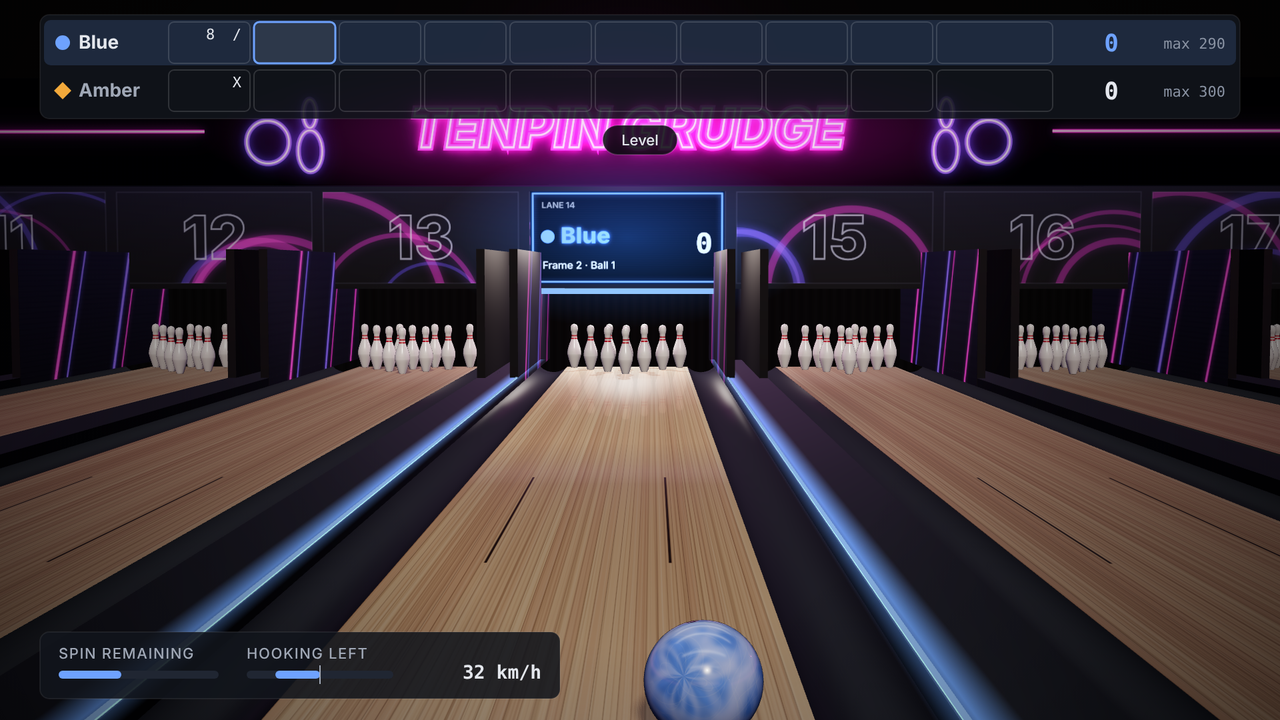
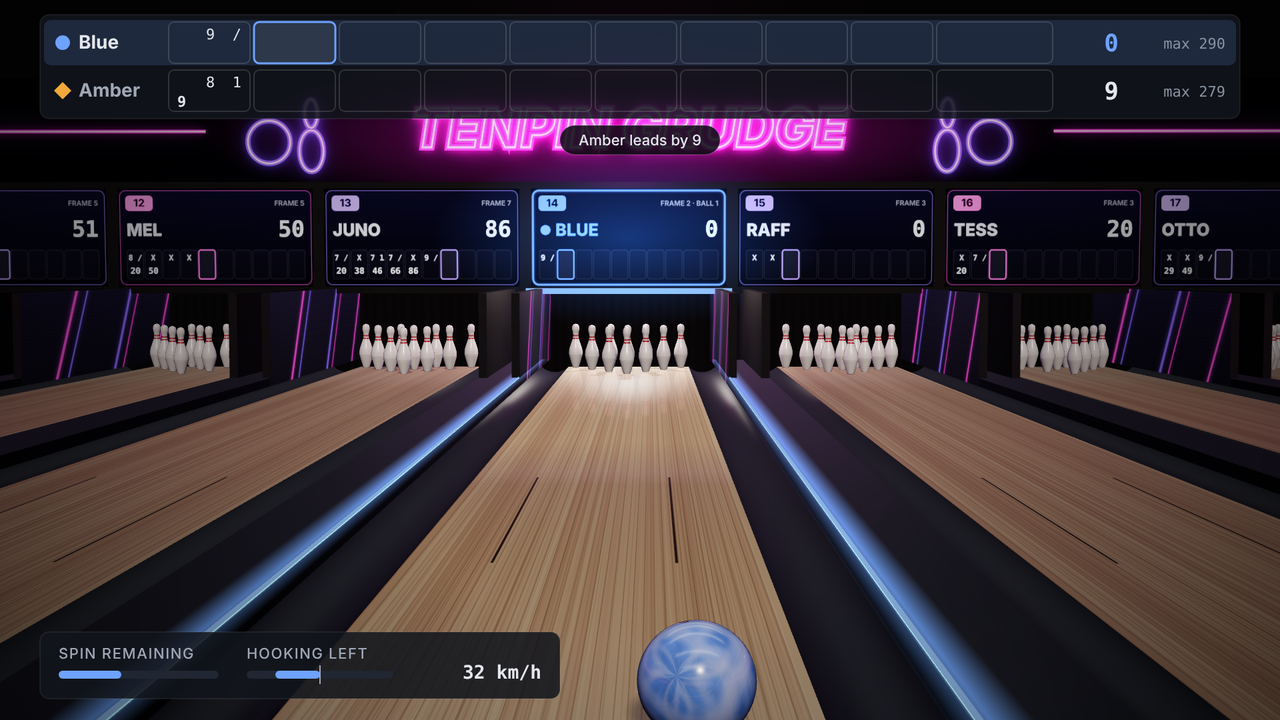
Tenpin Grudge: rework the lane boards
- Seven separate screens in one layout: lane badge, bowler, score and a ten-frame strip.
- Lane 14 follows the match in the bowler's colour; the neighbours' boards follow their own
  made-up games, which advance as their balls land.
- Kickbacks lowered so they no longer cut across the screens.
Physics, scoring and the bot are unchanged.

Claude-Session: https://claude.ai/code/session_01LpKQHdNm2zbJTVhMqFWkmD

diff --git a/master.html b/master.html
@@ -8611,8 +8611,8 @@ class View {
         if (n === -1 || n === 0) { const led = new THREE.Mesh(new THREE.BoxGeometry(0.012, 0.012, DECK + 1.5), new THREE.MeshBasicMaterial({ color: T.p[0] })); add(led, cx + PITCH / 2 + (n ? 0.14 : -0.14), 0.062, mid); this.leds.push(led); const lg2 = new THREE.Mesh(new THREE.PlaneGeometry(0.16, DECK + 1.5).rotateX(-Math.PI / 2), this.ledGlow); lg2.renderOrder = 3; add(lg2, cx + PITCH / 2 + (n ? 0.12 : -0.12), 0.064, mid); }
       }
       for (const s of [-1, 1]) {
-        const k = new THREE.Mesh(new THREE.BoxGeometry(0.06, 1.0, 3.4), kBox); k.receiveShadow = true; add(k, cx + s * (far + 0.03), 0.5, DECK - 0.5);
-        const art = new THREE.Mesh(new THREE.PlaneGeometry(3.4, 1.0), kMat); art.rotation.y = -s * Math.PI / 2; art.receiveShadow = true; add(art, cx + s * (far - 0.001), 0.5, DECK - 0.5);
+        const k = new THREE.Mesh(new THREE.BoxGeometry(0.06, 0.68, 3.4), kBox); k.receiveShadow = true; add(k, cx + s * (far + 0.03), 0.34, DECK - 0.5);
+        const art = new THREE.Mesh(new THREE.PlaneGeometry(3.4, 0.68), kMat); art.rotation.y = -s * Math.PI / 2; art.receiveShadow = true; add(art, cx + s * (far - 0.001), 0.34, DECK - 0.5);
       }
     }
     // side walls: dark panels, pilasters and two neon tubes running the length of the hall
@@ -8628,21 +8628,16 @@ class View {
     const [ct, cc2] = canvas(1024, 64); for (let x = 0; x < 1024; x++) { const v = 10 + 9 * Math.sin(x / 1024 * Math.PI * 2 * 70) ** 2; cc2.fillStyle = `rgb(${v},${v},${v + 4})`; cc2.fillRect(x, 0, 1, 64); }
     const ctex = new THREE.CanvasTexture(ct); ctex.colorSpace = THREE.SRGBColorSpace;
     add(new THREE.Mesh(new THREE.PlaneGeometry(HALL * 2, 1.8), mat(0xffffff, 1, { map: ctex })), 0, 0.4, PIT + 0.08);
-    // masking units: an art panel per lane, and over this lane a live display of the bowler, frame and score
-    const lanes = 2 * NL + 1, MW = 512, [mt, mc] = canvas(MW * lanes, 256), mg = mc.createLinearGradient(0, 0, 0, 256);
-    mg.addColorStop(0, '#1C1934'); mg.addColorStop(1, '#0B0A15'); mc.fillStyle = mg; mc.fillRect(0, 0, MW * lanes, 256);
-    for (let i = 0; i < lanes; i++) {
-      const x0 = i * MW, no = 14 - NL + i, R4 = rand(31 + i * 7);
-      mc.save(); mc.beginPath(); mc.rect(x0 + 14, 14, MW - 28, 228); mc.clip();
-      for (let k = 0; k < 3; k++) { const col = R4() < 0.5 ? MAG : VIO; mc.strokeStyle = col; mc.globalAlpha = 0.35; mc.lineWidth = 6 + R4() * 16; mc.shadowColor = col; mc.shadowBlur = 24; mc.beginPath(); mc.arc(x0 + R4() * MW, 256 + R4() * 120, 120 + R4() * 200, Math.PI, Math.PI * 2); mc.stroke(); }
-      mc.restore(); mc.globalAlpha = 1; mc.shadowBlur = 0;
-      mc.strokeStyle = 'rgba(255,255,255,0.12)'; mc.lineWidth = 3; mc.strokeRect(x0 + 14, 14, MW - 28, 228);
-      mc.font = '800 150px Geist, "Segoe UI", sans-serif'; mc.textAlign = 'center'; mc.textBaseline = 'middle'; mc.lineWidth = 4; mc.strokeStyle = 'rgba(240,236,255,0.55)'; mc.strokeText(String(no), x0 + MW / 2, 136);
+    // masking units: one screen per lane, all in the same layout. Lane 14 follows the match; the others follow their own bowlers.
+    const lanes = 2 * NL + 1;
+    add(new THREE.Mesh(new THREE.BoxGeometry(PITCH * lanes, 0.98, 0.12), mat('#08070F', 0.7)), 0, 1.13, DECK + 0.2);       // the fascia the screens sit in
+    this.boards = new Map();
+    for (let n = -NL; n <= NL; n++) {
+      const [cv3, c3] = canvas(n ? 512 : 1024, n ? 256 : 512), tex3 = new THREE.CanvasTexture(cv3); tex3.colorSpace = THREE.SRGBColorSpace; tex3.anisotropy = 8;
+      add(new THREE.Mesh(new THREE.PlaneGeometry(PITCH - 0.1, (PITCH - 0.1) / 2), new THREE.MeshBasicMaterial({ map: tex3 })), n * PITCH, 1.13, DECK + 0.135);
+      this.boards.set(n, { c: c3, w: cv3.width, tex: tex3, key: '' });
     }
-    const mtex = new THREE.CanvasTexture(mt); mtex.colorSpace = THREE.SRGBColorSpace; mtex.anisotropy = 8;
-    add(new THREE.Mesh(new THREE.BoxGeometry(PITCH * lanes, 0.9, 0.12), new THREE.MeshStandardMaterial({ color: 0x000000, roughness: 0.6, emissive: 0xffffff, emissiveMap: mtex, emissiveIntensity: 0.85 })), 0, 1.13, DECK + 0.2);
-    [this.dcv, this.dc] = canvas(1024, 512); this.dtex = new THREE.CanvasTexture(this.dcv); this.dtex.colorSpace = THREE.SRGBColorSpace; this.dtex.anisotropy = 8; this.dkey = '';
-    add(new THREE.Mesh(new THREE.PlaneGeometry(PITCH * 0.94, 0.82), new THREE.MeshBasicMaterial({ map: this.dtex })), 0, 1.13, DECK + 0.135);
+    this.dkey = '';
     // above the masking units: the hall's neon sign
     const SW = 4096, [st2, sc2] = canvas(SW, 300);
     sc2.fillStyle = '#08070F'; sc2.fillRect(0, 0, SW, 300); sc2.textAlign = 'center'; sc2.textBaseline = 'middle';
@@ -8686,6 +8681,8 @@ class View {
     this.nb = [-3, -2, -1, 1, 2, 3].map((n, li) => ({ n, li, state: 'idle', t: 3 + R5() * 10, pins: SPOTS.map(() => ({ k: 0, down: false })) }));
     const nbg = new THREE.SphereGeometry(BR, 32, 20); this.pool = [0, 1].map(() => { const m = new THREE.Mesh(nbg, new THREE.MeshPhysicalMaterial({ color: 0xffffff, roughness: 0.2, clearcoat: 1, clearcoatRoughness: 0.05 })); m.castShadow = true; m.visible = false; sc.add(m); return m; });
     this.cols = cols; this.rackAll();
+    const who = ['Kai', 'Mel', 'Juno', 'Raff', 'Tess', 'Otto'];
+    this.nb.forEach((L, i) => { L.who = who[i]; L.rolls = []; this.play(L, 2 + Math.floor(R5() * 5)); this.neighbourBoard(L); });
 
     // The ball: a swirled pearl in the bowler's colour with their mark and three finger holes
     this.skins = [0, 1].map(i => {
@@ -8733,6 +8730,16 @@ class View {
     });
     this.racks.instanceMatrix.needsUpdate = true;
   }
+  play(L, n, first) {                                          // a neighbour's frames, made up: the first ball from the animation if there was one
+    const R = this.R;
+    for (let i = 0; i < n; i++) {
+      if (frames(L.rolls)[9].done) L.rolls = [];
+      const a = first != null && i === 0 ? first : R() < 0.35 ? 10 : 6 + Math.floor(R() * 4); L.rolls.push(a);
+      const fr = frames(L.rolls), f = fr.findIndex(q => !q.done);
+      if (f >= 0 && a < 10) L.rolls.push(R() < 0.5 ? 10 - a : Math.floor(R() * (10 - a)));
+      if (f === 9) while (!frames(L.rolls)[9].done) L.rolls.push(Math.min(standing(L.rolls), 6 + Math.floor(R() * 5)));
+    }
+  }
   neighbours(dt) {
     const R = this.R;
     for (const L of this.nb) {
@@ -8748,6 +8755,7 @@ class View {
           L.state = 'fall'; L.t = 0; const strike = R() < 0.4 || Math.abs(L.x - 0.07) < 0.05, keep = strike ? 0 : 1 + Math.floor(R() * 4), order = SPOTS.map((_, i) => i).sort(() => R() - 0.5);
           L.pins.forEach((p, i) => { const s2 = SPOTS[i], fx = s2.x - L.x, fd = s2.d - HEAD + 0.25, m = Math.hypot(fx, fd) || 1;
             Object.assign(p, { down: !order.slice(0, keep).includes(i), delay: (s2.d - HEAD) * 0.4 + R() * 0.08, dx: (fx / m) * 0.3 + (R() - 0.5) * 0.15, dd: (fd / m) * 0.35, ax: fd / m + (R() - 0.5) * 0.6, az: -fx / m + (R() - 0.5) * 0.6, k: 0 }); });
+          this.play(L, 1, 10 - keep); this.neighbourBoard(L);
           const pan = U.clamp(L.n / 3, -1, 1) * 0.85;
           for (let j = 0; j < 4; j++) Sfx.play('tg-pin', { vol: 0.025 + R() * 0.03, pan, delay: j * 0.05 + R() * 0.05, pitch: 0.8 + R() * 0.3 });
         }
@@ -8759,23 +8767,41 @@ class View {
       } else if (L.state === 'sweep' && L.t <= 0) { for (const p of L.pins) { p.gone = false; delete p.ax; } this.rack(L, true); L.state = 'idle'; L.t = 6 + R() * 16; }
     }
   }
-  display(g) {                                                 // the screen over lane 14: who is bowling, which frame, their score
-    const p = g.cur, t = g.turn, over = g.state === 'over', name = NAME[p.c];
-    const sub = over ? 'Final' : g.state === 'intro' ? 'First to bowl' : t && t.ro ? 'Roll-off ' + t.ro : t ? `Frame ${t.f + 1} · Ball ${t.b + 1}` : '';
-    const head = over ? (g.won < 0 ? 'A draw' : NAME[g.P[g.won].c] + ' wins') : name, sc = shown(p.rolls), key = [p.c, head, sub, sc].join('|');
-    if (key === this.dkey) return; this.dkey = key;
-    const c = this.dc, col = over && g.won < 0 ? '#E4E7ED' : T.p[over && g.won >= 0 ? g.P[g.won].c : p.c], gr = c.createLinearGradient(0, 0, 0, 512);
-    gr.addColorStop(0, '#16152A'); gr.addColorStop(1, '#09080F'); c.fillStyle = gr; c.fillRect(0, 0, 1024, 512);
-    c.strokeStyle = col; c.lineWidth = 8; c.shadowColor = col; c.shadowBlur = 30; c.strokeRect(14, 14, 996, 484); c.shadowBlur = 0;
-    c.fillStyle = 'rgba(255,255,255,0.04)'; for (let y = 20; y < 500; y += 6) c.fillRect(20, y, 984, 2);
-    c.textBaseline = 'middle'; c.textAlign = 'left'; c.font = '600 44px Geist, "Segoe UI", sans-serif'; c.fillStyle = 'rgba(228,231,237,0.6)'; c.fillText('LANE 14', 60, 80);
-    const mx = 92, my = 250; c.fillStyle = col; c.beginPath();
-    if ((over && g.won >= 0 ? g.P[g.won].c : p.c) === 0) c.arc(mx, my, 36, 0, 7); else { c.moveTo(mx, my - 44); c.lineTo(mx + 44, my); c.lineTo(mx, my + 44); c.lineTo(mx - 44, my); c.closePath(); }
-    c.fill(); c.font = '800 120px Geist, "Segoe UI", sans-serif'; c.fillStyle = col; c.shadowColor = col; c.shadowBlur = 24; c.fillText(head, 160, 250); c.shadowBlur = 0;
-    c.font = '500 54px Geist, "Segoe UI", sans-serif'; c.fillStyle = '#E4E7ED'; c.fillText(sub, 64, 410);
-    if (!over) { c.textAlign = 'right'; c.font = '700 150px "JetBrains Mono", Consolas, monospace'; c.fillStyle = '#F4F6FA'; c.fillText(String(sc), 960, 300); }
-    this.dtex.needsUpdate = true;
+  // One lane screen. o: { lane, name, sub, rolls, score, accent, mark (0 circle, 1 diamond, or none), live (frame index to outline), main }
+  board(n, o) {
+    const B = this.boards.get(n), key = JSON.stringify(o); if (key === B.key) return; B.key = key;
+    const c = B.c, k = B.w / 512; c.setTransform(k, 0, 0, k, 0, 0);
+    const rr = (x, y, w, h, r) => { c.beginPath(); c.roundRect(x, y, w, h, r); };
+    c.fillStyle = '#05040A'; c.fillRect(0, 0, 512, 256);
+    const g = c.createLinearGradient(0, 0, 0, 256); g.addColorStop(0, '#1A1834'); g.addColorStop(1, '#0B0A17');
+    rr(5, 5, 502, 246, 16); c.fillStyle = g; c.fill();
+    c.save(); if (o.main) { c.shadowColor = o.accent; c.shadowBlur = 14; } c.strokeStyle = o.accent; c.globalAlpha = o.main ? 1 : 0.55; c.lineWidth = o.main ? 4 : 2.5; rr(5, 5, 502, 246, 16); c.stroke(); c.restore();
+    // lane badge, then what is happening
+    rr(20, 18, 72, 40, 10); c.fillStyle = o.accent; c.fill();
+    c.textBaseline = 'middle'; c.textAlign = 'center'; c.font = '800 28px Geist, "Segoe UI", sans-serif'; c.fillStyle = '#0B0A14'; c.fillText(String(o.lane), 56, 39);
+    c.textAlign = 'right'; c.font = '600 18px Geist, "Segoe UI", sans-serif'; c.fillStyle = 'rgba(228,231,237,0.62)'; c.fillText(o.sub.toUpperCase(), 490, 39);
+    // bowler and score
+    let nx = 22;
+    if (o.mark === 0 || o.mark === 1) { c.fillStyle = o.accent; c.beginPath(); if (o.mark === 0) c.arc(38, 108, 13, 0, 7); else { c.moveTo(38, 92); c.lineTo(54, 108); c.lineTo(38, 124); c.lineTo(22, 108); c.closePath(); } c.fill(); nx = 64; }
+    c.textAlign = 'left'; c.font = '800 44px Geist, "Segoe UI", sans-serif'; c.fillStyle = o.main ? o.accent : '#ECEAF6'; c.fillText(o.name.toUpperCase(), nx, 110);
+    if (o.score != null) { c.textAlign = 'right'; c.font = '700 58px "JetBrains Mono", Consolas, monospace'; c.fillStyle = '#F4F6FA'; c.fillText(String(o.score), 490, 110); }
+    // ten frames: marks on top, running total underneath
+    const fr = frames(o.rolls), bw = (468 - 9 * 4) / 10;
+    fr.forEach((q, f) => {
+      const x = 22 + f * (bw + 4), y = 160, on = f === o.live;
+      rr(x, y, bw, 76, 6); c.fillStyle = on ? 'rgba(255,255,255,0.10)' : 'rgba(255,255,255,0.04)'; c.fill();
+      c.strokeStyle = on ? o.accent : 'rgba(255,255,255,0.16)'; c.lineWidth = on ? 3 : 1.5; c.stroke();
+      c.textAlign = 'center'; c.fillStyle = '#E4E7ED'; c.font = '600 20px "JetBrains Mono", Consolas, monospace'; c.fillText(marks(q, f).join(f === 9 ? '' : ' '), x + bw / 2, y + 22);
+      if (q.total != null) { c.font = '700 22px "JetBrains Mono", Consolas, monospace'; c.fillStyle = '#F4F6FA'; c.fillText(String(q.total), x + bw / 2, y + 56); }
+    });
+    B.tex.needsUpdate = true;
   }
+  display(g) {                                                 // the screen over lane 14: who is bowling, which frame, their score
+    const t = g.turn, over = g.state === 'over', who = over && g.won >= 0 ? g.P[g.won] : g.cur, c = who.c;
+    const sub = over ? 'Final' : g.state === 'intro' ? 'First to bowl' : t && t.ro ? 'Roll-off ' + t.ro : t ? `Frame ${t.f + 1} · Ball ${t.b + 1}` : '';
+    this.board(0, { lane: 14, name: over ? (g.won < 0 ? 'A draw' : NAME[c] + ' wins') : NAME[c], sub, rolls: who.rolls, score: shown(who.rolls), accent: over && g.won < 0 ? '#E4E7ED' : T.p[c], mark: over && g.won < 0 ? null : c, live: over || !t || t.ro || who !== g.cur ? -1 : t.f, main: true });
+  }
+  neighbourBoard(L) { const fr = frames(L.rolls), f = fr.findIndex(q => !q.done); this.board(L.n, { lane: 14 + L.n, name: L.who, sub: f < 0 ? 'Final' : 'Frame ' + (f + 1), rolls: L.rolls, score: shown(L.rolls), accent: L.n % 2 ? '#B49CFF' : '#FF7AE0', live: f, main: false }); }
   render(g) {
     const now = performance.now(), dt = Math.min(0.1, this.last ? (now - this.last) / 1000 : 0.016); this.last = now;
     const want = U.clamp(Math.round(W * (Couch.Engine.scale || 1)), 960, 1920);

diff --git a/src/38-tenpin-grudge.js b/src/38-tenpin-grudge.js
@@ -311,8 +311,8 @@ class View {
         if (n === -1 || n === 0) { const led = new THREE.Mesh(new THREE.BoxGeometry(0.012, 0.012, DECK + 1.5), new THREE.MeshBasicMaterial({ color: T.p[0] })); add(led, cx + PITCH / 2 + (n ? 0.14 : -0.14), 0.062, mid); this.leds.push(led); const lg2 = new THREE.Mesh(new THREE.PlaneGeometry(0.16, DECK + 1.5).rotateX(-Math.PI / 2), this.ledGlow); lg2.renderOrder = 3; add(lg2, cx + PITCH / 2 + (n ? 0.12 : -0.12), 0.064, mid); }
       }
       for (const s of [-1, 1]) {
-        const k = new THREE.Mesh(new THREE.BoxGeometry(0.06, 1.0, 3.4), kBox); k.receiveShadow = true; add(k, cx + s * (far + 0.03), 0.5, DECK - 0.5);
-        const art = new THREE.Mesh(new THREE.PlaneGeometry(3.4, 1.0), kMat); art.rotation.y = -s * Math.PI / 2; art.receiveShadow = true; add(art, cx + s * (far - 0.001), 0.5, DECK - 0.5);
+        const k = new THREE.Mesh(new THREE.BoxGeometry(0.06, 0.68, 3.4), kBox); k.receiveShadow = true; add(k, cx + s * (far + 0.03), 0.34, DECK - 0.5);
+        const art = new THREE.Mesh(new THREE.PlaneGeometry(3.4, 0.68), kMat); art.rotation.y = -s * Math.PI / 2; art.receiveShadow = true; add(art, cx + s * (far - 0.001), 0.34, DECK - 0.5);
       }
     }
     // side walls: dark panels, pilasters and two neon tubes running the length of the hall
@@ -328,21 +328,16 @@ class View {
     const [ct, cc2] = canvas(1024, 64); for (let x = 0; x < 1024; x++) { const v = 10 + 9 * Math.sin(x / 1024 * Math.PI * 2 * 70) ** 2; cc2.fillStyle = `rgb(${v},${v},${v + 4})`; cc2.fillRect(x, 0, 1, 64); }
     const ctex = new THREE.CanvasTexture(ct); ctex.colorSpace = THREE.SRGBColorSpace;
     add(new THREE.Mesh(new THREE.PlaneGeometry(HALL * 2, 1.8), mat(0xffffff, 1, { map: ctex })), 0, 0.4, PIT + 0.08);
-    // masking units: an art panel per lane, and over this lane a live display of the bowler, frame and score
-    const lanes = 2 * NL + 1, MW = 512, [mt, mc] = canvas(MW * lanes, 256), mg = mc.createLinearGradient(0, 0, 0, 256);
-    mg.addColorStop(0, '#1C1934'); mg.addColorStop(1, '#0B0A15'); mc.fillStyle = mg; mc.fillRect(0, 0, MW * lanes, 256);
-    for (let i = 0; i < lanes; i++) {
-      const x0 = i * MW, no = 14 - NL + i, R4 = rand(31 + i * 7);
-      mc.save(); mc.beginPath(); mc.rect(x0 + 14, 14, MW - 28, 228); mc.clip();
-      for (let k = 0; k < 3; k++) { const col = R4() < 0.5 ? MAG : VIO; mc.strokeStyle = col; mc.globalAlpha = 0.35; mc.lineWidth = 6 + R4() * 16; mc.shadowColor = col; mc.shadowBlur = 24; mc.beginPath(); mc.arc(x0 + R4() * MW, 256 + R4() * 120, 120 + R4() * 200, Math.PI, Math.PI * 2); mc.stroke(); }
-      mc.restore(); mc.globalAlpha = 1; mc.shadowBlur = 0;
-      mc.strokeStyle = 'rgba(255,255,255,0.12)'; mc.lineWidth = 3; mc.strokeRect(x0 + 14, 14, MW - 28, 228);
-      mc.font = '800 150px Geist, "Segoe UI", sans-serif'; mc.textAlign = 'center'; mc.textBaseline = 'middle'; mc.lineWidth = 4; mc.strokeStyle = 'rgba(240,236,255,0.55)'; mc.strokeText(String(no), x0 + MW / 2, 136);
+    // masking units: one screen per lane, all in the same layout. Lane 14 follows the match; the others follow their own bowlers.
+    const lanes = 2 * NL + 1;
+    add(new THREE.Mesh(new THREE.BoxGeometry(PITCH * lanes, 0.98, 0.12), mat('#08070F', 0.7)), 0, 1.13, DECK + 0.2);       // the fascia the screens sit in
+    this.boards = new Map();
+    for (let n = -NL; n <= NL; n++) {
+      const [cv3, c3] = canvas(n ? 512 : 1024, n ? 256 : 512), tex3 = new THREE.CanvasTexture(cv3); tex3.colorSpace = THREE.SRGBColorSpace; tex3.anisotropy = 8;
+      add(new THREE.Mesh(new THREE.PlaneGeometry(PITCH - 0.1, (PITCH - 0.1) / 2), new THREE.MeshBasicMaterial({ map: tex3 })), n * PITCH, 1.13, DECK + 0.135);
+      this.boards.set(n, { c: c3, w: cv3.width, tex: tex3, key: '' });
     }
-    const mtex = new THREE.CanvasTexture(mt); mtex.colorSpace = THREE.SRGBColorSpace; mtex.anisotropy = 8;
-    add(new THREE.Mesh(new THREE.BoxGeometry(PITCH * lanes, 0.9, 0.12), new THREE.MeshStandardMaterial({ color: 0x000000, roughness: 0.6, emissive: 0xffffff, emissiveMap: mtex, emissiveIntensity: 0.85 })), 0, 1.13, DECK + 0.2);
-    [this.dcv, this.dc] = canvas(1024, 512); this.dtex = new THREE.CanvasTexture(this.dcv); this.dtex.colorSpace = THREE.SRGBColorSpace; this.dtex.anisotropy = 8; this.dkey = '';
-    add(new THREE.Mesh(new THREE.PlaneGeometry(PITCH * 0.94, 0.82), new THREE.MeshBasicMaterial({ map: this.dtex })), 0, 1.13, DECK + 0.135);
+    this.dkey = '';
     // above the masking units: the hall's neon sign
     const SW = 4096, [st2, sc2] = canvas(SW, 300);
     sc2.fillStyle = '#08070F'; sc2.fillRect(0, 0, SW, 300); sc2.textAlign = 'center'; sc2.textBaseline = 'middle';
@@ -386,6 +381,8 @@ class View {
     this.nb = [-3, -2, -1, 1, 2, 3].map((n, li) => ({ n, li, state: 'idle', t: 3 + R5() * 10, pins: SPOTS.map(() => ({ k: 0, down: false })) }));
     const nbg = new THREE.SphereGeometry(BR, 32, 20); this.pool = [0, 1].map(() => { const m = new THREE.Mesh(nbg, new THREE.MeshPhysicalMaterial({ color: 0xffffff, roughness: 0.2, clearcoat: 1, clearcoatRoughness: 0.05 })); m.castShadow = true; m.visible = false; sc.add(m); return m; });
     this.cols = cols; this.rackAll();
+    const who = ['Kai', 'Mel', 'Juno', 'Raff', 'Tess', 'Otto'];
+    this.nb.forEach((L, i) => { L.who = who[i]; L.rolls = []; this.play(L, 2 + Math.floor(R5() * 5)); this.neighbourBoard(L); });
 
     // The ball: a swirled pearl in the bowler's colour with their mark and three finger holes
     this.skins = [0, 1].map(i => {
@@ -433,6 +430,16 @@ class View {
     });
     this.racks.instanceMatrix.needsUpdate = true;
   }
+  play(L, n, first) {                                          // a neighbour's frames, made up: the first ball from the animation if there was one
+    const R = this.R;
+    for (let i = 0; i < n; i++) {
+      if (frames(L.rolls)[9].done) L.rolls = [];
+      const a = first != null && i === 0 ? first : R() < 0.35 ? 10 : 6 + Math.floor(R() * 4); L.rolls.push(a);
+      const fr = frames(L.rolls), f = fr.findIndex(q => !q.done);
+      if (f >= 0 && a < 10) L.rolls.push(R() < 0.5 ? 10 - a : Math.floor(R() * (10 - a)));
+      if (f === 9) while (!frames(L.rolls)[9].done) L.rolls.push(Math.min(standing(L.rolls), 6 + Math.floor(R() * 5)));
+    }
+  }
   neighbours(dt) {
     const R = this.R;
     for (const L of this.nb) {
@@ -448,6 +455,7 @@ class View {
           L.state = 'fall'; L.t = 0; const strike = R() < 0.4 || Math.abs(L.x - 0.07) < 0.05, keep = strike ? 0 : 1 + Math.floor(R() * 4), order = SPOTS.map((_, i) => i).sort(() => R() - 0.5);
           L.pins.forEach((p, i) => { const s2 = SPOTS[i], fx = s2.x - L.x, fd = s2.d - HEAD + 0.25, m = Math.hypot(fx, fd) || 1;
             Object.assign(p, { down: !order.slice(0, keep).includes(i), delay: (s2.d - HEAD) * 0.4 + R() * 0.08, dx: (fx / m) * 0.3 + (R() - 0.5) * 0.15, dd: (fd / m) * 0.35, ax: fd / m + (R() - 0.5) * 0.6, az: -fx / m + (R() - 0.5) * 0.6, k: 0 }); });
+          this.play(L, 1, 10 - keep); this.neighbourBoard(L);
           const pan = U.clamp(L.n / 3, -1, 1) * 0.85;
           for (let j = 0; j < 4; j++) Sfx.play('tg-pin', { vol: 0.025 + R() * 0.03, pan, delay: j * 0.05 + R() * 0.05, pitch: 0.8 + R() * 0.3 });
         }
@@ -459,23 +467,41 @@ class View {
       } else if (L.state === 'sweep' && L.t <= 0) { for (const p of L.pins) { p.gone = false; delete p.ax; } this.rack(L, true); L.state = 'idle'; L.t = 6 + R() * 16; }
     }
   }
-  display(g) {                                                 // the screen over lane 14: who is bowling, which frame, their score
-    const p = g.cur, t = g.turn, over = g.state === 'over', name = NAME[p.c];
-    const sub = over ? 'Final' : g.state === 'intro' ? 'First to bowl' : t && t.ro ? 'Roll-off ' + t.ro : t ? `Frame ${t.f + 1} · Ball ${t.b + 1}` : '';
-    const head = over ? (g.won < 0 ? 'A draw' : NAME[g.P[g.won].c] + ' wins') : name, sc = shown(p.rolls), key = [p.c, head, sub, sc].join('|');
-    if (key === this.dkey) return; this.dkey = key;
-    const c = this.dc, col = over && g.won < 0 ? '#E4E7ED' : T.p[over && g.won >= 0 ? g.P[g.won].c : p.c], gr = c.createLinearGradient(0, 0, 0, 512);
-    gr.addColorStop(0, '#16152A'); gr.addColorStop(1, '#09080F'); c.fillStyle = gr; c.fillRect(0, 0, 1024, 512);
-    c.strokeStyle = col; c.lineWidth = 8; c.shadowColor = col; c.shadowBlur = 30; c.strokeRect(14, 14, 996, 484); c.shadowBlur = 0;
-    c.fillStyle = 'rgba(255,255,255,0.04)'; for (let y = 20; y < 500; y += 6) c.fillRect(20, y, 984, 2);
-    c.textBaseline = 'middle'; c.textAlign = 'left'; c.font = '600 44px Geist, "Segoe UI", sans-serif'; c.fillStyle = 'rgba(228,231,237,0.6)'; c.fillText('LANE 14', 60, 80);
-    const mx = 92, my = 250; c.fillStyle = col; c.beginPath();
-    if ((over && g.won >= 0 ? g.P[g.won].c : p.c) === 0) c.arc(mx, my, 36, 0, 7); else { c.moveTo(mx, my - 44); c.lineTo(mx + 44, my); c.lineTo(mx, my + 44); c.lineTo(mx - 44, my); c.closePath(); }
-    c.fill(); c.font = '800 120px Geist, "Segoe UI", sans-serif'; c.fillStyle = col; c.shadowColor = col; c.shadowBlur = 24; c.fillText(head, 160, 250); c.shadowBlur = 0;
-    c.font = '500 54px Geist, "Segoe UI", sans-serif'; c.fillStyle = '#E4E7ED'; c.fillText(sub, 64, 410);
-    if (!over) { c.textAlign = 'right'; c.font = '700 150px "JetBrains Mono", Consolas, monospace'; c.fillStyle = '#F4F6FA'; c.fillText(String(sc), 960, 300); }
-    this.dtex.needsUpdate = true;
+  // One lane screen. o: { lane, name, sub, rolls, score, accent, mark (0 circle, 1 diamond, or none), live (frame index to outline), main }
+  board(n, o) {
+    const B = this.boards.get(n), key = JSON.stringify(o); if (key === B.key) return; B.key = key;
+    const c = B.c, k = B.w / 512; c.setTransform(k, 0, 0, k, 0, 0);
+    const rr = (x, y, w, h, r) => { c.beginPath(); c.roundRect(x, y, w, h, r); };
+    c.fillStyle = '#05040A'; c.fillRect(0, 0, 512, 256);
+    const g = c.createLinearGradient(0, 0, 0, 256); g.addColorStop(0, '#1A1834'); g.addColorStop(1, '#0B0A17');
+    rr(5, 5, 502, 246, 16); c.fillStyle = g; c.fill();
+    c.save(); if (o.main) { c.shadowColor = o.accent; c.shadowBlur = 14; } c.strokeStyle = o.accent; c.globalAlpha = o.main ? 1 : 0.55; c.lineWidth = o.main ? 4 : 2.5; rr(5, 5, 502, 246, 16); c.stroke(); c.restore();
+    // lane badge, then what is happening
+    rr(20, 18, 72, 40, 10); c.fillStyle = o.accent; c.fill();
+    c.textBaseline = 'middle'; c.textAlign = 'center'; c.font = '800 28px Geist, "Segoe UI", sans-serif'; c.fillStyle = '#0B0A14'; c.fillText(String(o.lane), 56, 39);
+    c.textAlign = 'right'; c.font = '600 18px Geist, "Segoe UI", sans-serif'; c.fillStyle = 'rgba(228,231,237,0.62)'; c.fillText(o.sub.toUpperCase(), 490, 39);
+    // bowler and score
+    let nx = 22;
+    if (o.mark === 0 || o.mark === 1) { c.fillStyle = o.accent; c.beginPath(); if (o.mark === 0) c.arc(38, 108, 13, 0, 7); else { c.moveTo(38, 92); c.lineTo(54, 108); c.lineTo(38, 124); c.lineTo(22, 108); c.closePath(); } c.fill(); nx = 64; }
+    c.textAlign = 'left'; c.font = '800 44px Geist, "Segoe UI", sans-serif'; c.fillStyle = o.main ? o.accent : '#ECEAF6'; c.fillText(o.name.toUpperCase(), nx, 110);
+    if (o.score != null) { c.textAlign = 'right'; c.font = '700 58px "JetBrains Mono", Consolas, monospace'; c.fillStyle = '#F4F6FA'; c.fillText(String(o.score), 490, 110); }
+    // ten frames: marks on top, running total underneath
+    const fr = frames(o.rolls), bw = (468 - 9 * 4) / 10;
+    fr.forEach((q, f) => {
+      const x = 22 + f * (bw + 4), y = 160, on = f === o.live;
+      rr(x, y, bw, 76, 6); c.fillStyle = on ? 'rgba(255,255,255,0.10)' : 'rgba(255,255,255,0.04)'; c.fill();
+      c.strokeStyle = on ? o.accent : 'rgba(255,255,255,0.16)'; c.lineWidth = on ? 3 : 1.5; c.stroke();
+      c.textAlign = 'center'; c.fillStyle = '#E4E7ED'; c.font = '600 20px "JetBrains Mono", Consolas, monospace'; c.fillText(marks(q, f).join(f === 9 ? '' : ' '), x + bw / 2, y + 22);
+      if (q.total != null) { c.font = '700 22px "JetBrains Mono", Consolas, monospace'; c.fillStyle = '#F4F6FA'; c.fillText(String(q.total), x + bw / 2, y + 56); }
+    });
+    B.tex.needsUpdate = true;
   }
+  display(g) {                                                 // the screen over lane 14: who is bowling, which frame, their score
+    const t = g.turn, over = g.state === 'over', who = over && g.won >= 0 ? g.P[g.won] : g.cur, c = who.c;
+    const sub = over ? 'Final' : g.state === 'intro' ? 'First to bowl' : t && t.ro ? 'Roll-off ' + t.ro : t ? `Frame ${t.f + 1} · Ball ${t.b + 1}` : '';
+    this.board(0, { lane: 14, name: over ? (g.won < 0 ? 'A draw' : NAME[c] + ' wins') : NAME[c], sub, rolls: who.rolls, score: shown(who.rolls), accent: over && g.won < 0 ? '#E4E7ED' : T.p[c], mark: over && g.won < 0 ? null : c, live: over || !t || t.ro || who !== g.cur ? -1 : t.f, main: true });
+  }
+  neighbourBoard(L) { const fr = frames(L.rolls), f = fr.findIndex(q => !q.done); this.board(L.n, { lane: 14 + L.n, name: L.who, sub: f < 0 ? 'Final' : 'Frame ' + (f + 1), rolls: L.rolls, score: shown(L.rolls), accent: L.n % 2 ? '#B49CFF' : '#FF7AE0', live: f, main: false }); }
   render(g) {
     const now = performance.now(), dt = Math.min(0.1, this.last ? (now - this.last) / 1000 : 0.016); this.last = now;
     const want = U.clamp(Math.round(W * (Couch.Engine.scale || 1)), 960, 1920);

diff --git a/agents/BUILD_LOG.md b/agents/BUILD_LOG.md
@@ -84,3 +84,17 @@ line below, each followed by text.
 - Rule 5: (an action neither can do alone) WAIVED by Marco with rule 3, as before.
 - Rule 6: (3 to 15 minute sessions, instant restart) unchanged.
 - Rule 7: (per-player assists) unchanged.
+
+## 2026-11-14 · tenpin-grudge · polish
+- Scope: rework the lane boards over the pins, at Marco's request. No change to physics, scoring, controls or the bot.
+- Kit: as before.
+- Two-player action: unchanged. A versus match on one lane.
+- Hard part: seven boards in one design that still read from the couch. Each is a separate screen: lane badge, bowler, score and a ten-frame strip. Lane 14 follows the match in the bowler's colour; the neighbours' boards follow their own made-up games, which advance as their animated balls land. The kickbacks are lowered so the screens are not cut off.
+- Assists: unchanged.
+- Rule 1: (one shared screen) unchanged; the lane 14 board repeats what the scorecard already shows.
+- Rule 2: (no hidden information) unchanged.
+- Rule 3: (win and lose together) WAIVED by Marco for this slot, as before.
+- Rule 4: (revive, never eliminate) unchanged.
+- Rule 5: (an action neither can do alone) WAIVED by Marco with rule 3, as before.
+- Rule 6: (3 to 15 minute sessions, instant restart) unchanged.
+- Rule 7: (per-player assists) unchanged.
